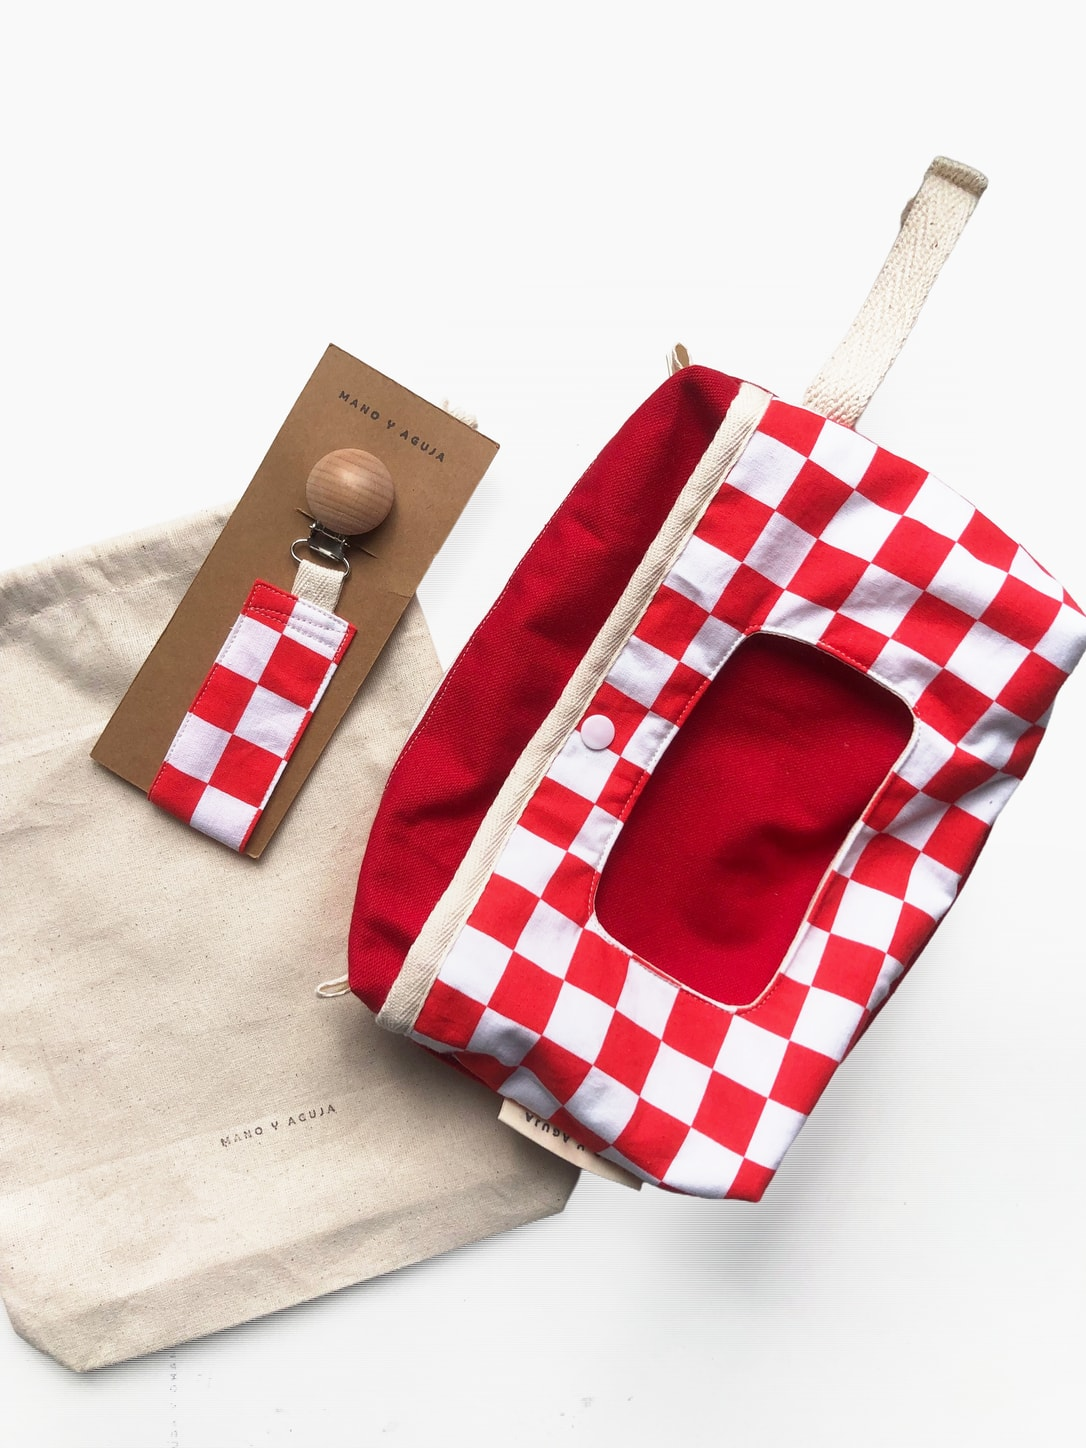
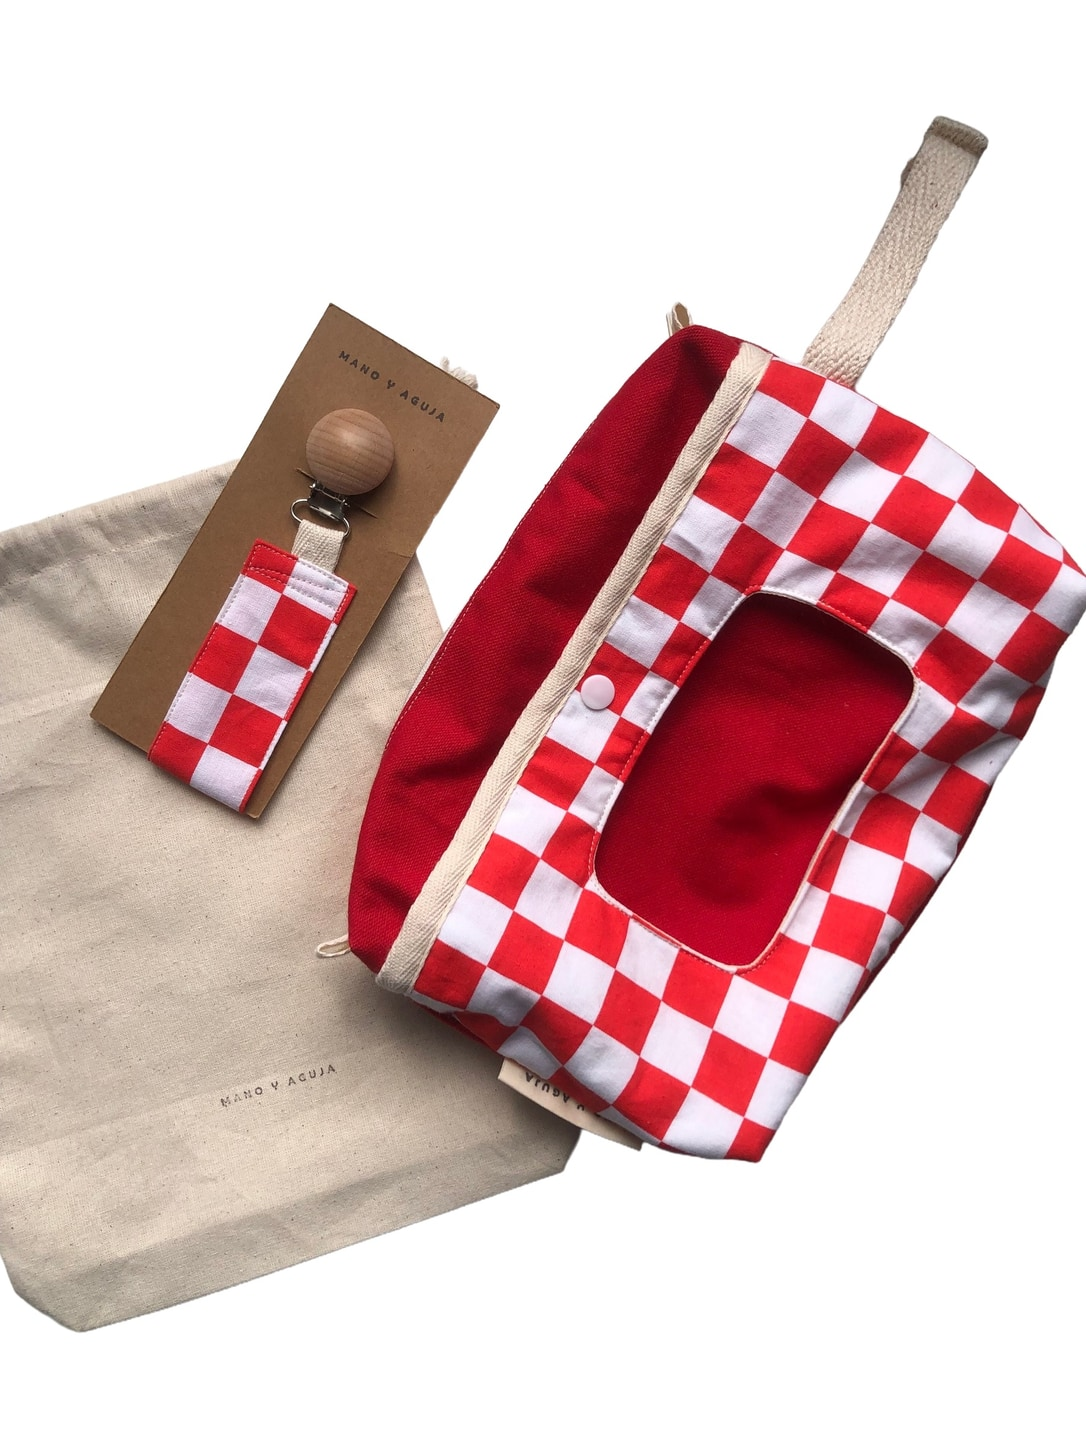
fix: Portawipes 01 con dos fotos sobre blanco; fuera las otras tres

diff --git a/productos.js b/productos.js
@@ -48,7 +48,7 @@
     { id:22, name:"Mochila 03",  price:32000,           category:"Accesorios", available:true, images:["assets/mochila-03.jpg","assets/mochila-03a.jpg","assets/mochila-interior-1.jpg","assets/mochila-interior-2.jpg"] },
     { id:23, name:"Mochila 04",  price:32000,           category:"Accesorios", available:true, images:["assets/mochila-04.jpg","assets/mochila-04a.jpg","assets/mochila-interior-1.jpg","assets/mochila-interior-2.jpg"] },
     // Se vende como set: portawipes + portachupete + bolsa
-    { id:24, name:"Portawipes 01", price:20000,         category:"Accesorios", available:true, incluye:"Incluye portachupete y bolsa de tela.", images:["assets/portawipes-01.jpg","assets/portawipes-01a.jpg","assets/portawipes-01b.jpg","assets/portawipes-01c.jpg","assets/portawipes-01d.jpg"] }
+    { id:24, name:"Portawipes 01", price:20000,         category:"Accesorios", available:true, incluye:"Incluye portachupete y bolsa de tela.", images:["assets/portawipes-01.jpg","assets/portawipes-01a.jpg"] }
   ];
 
   // Opciones de despacho. El precio tambien se valida en el servidor.
